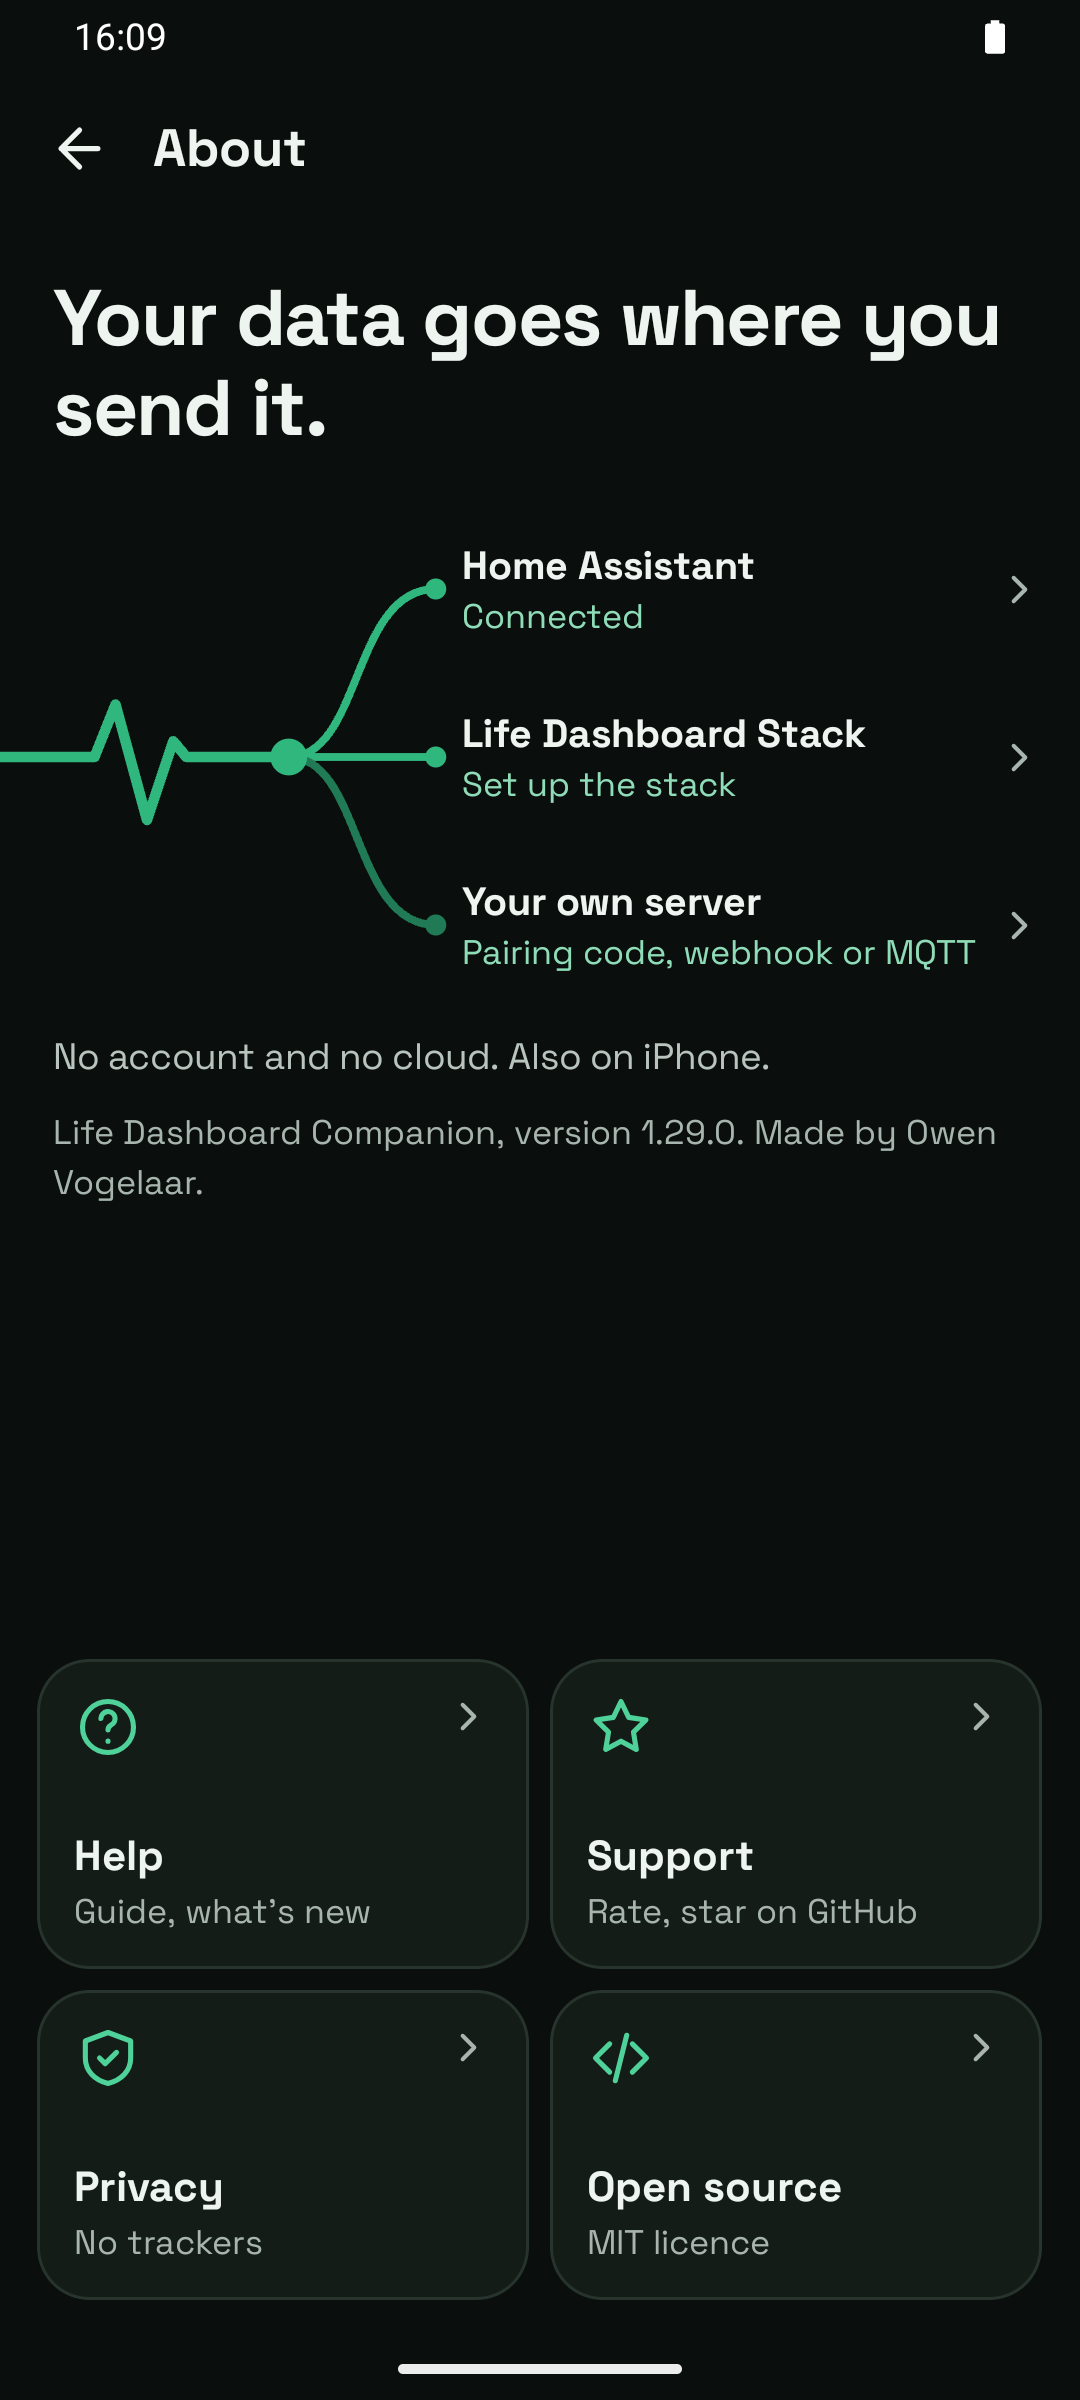
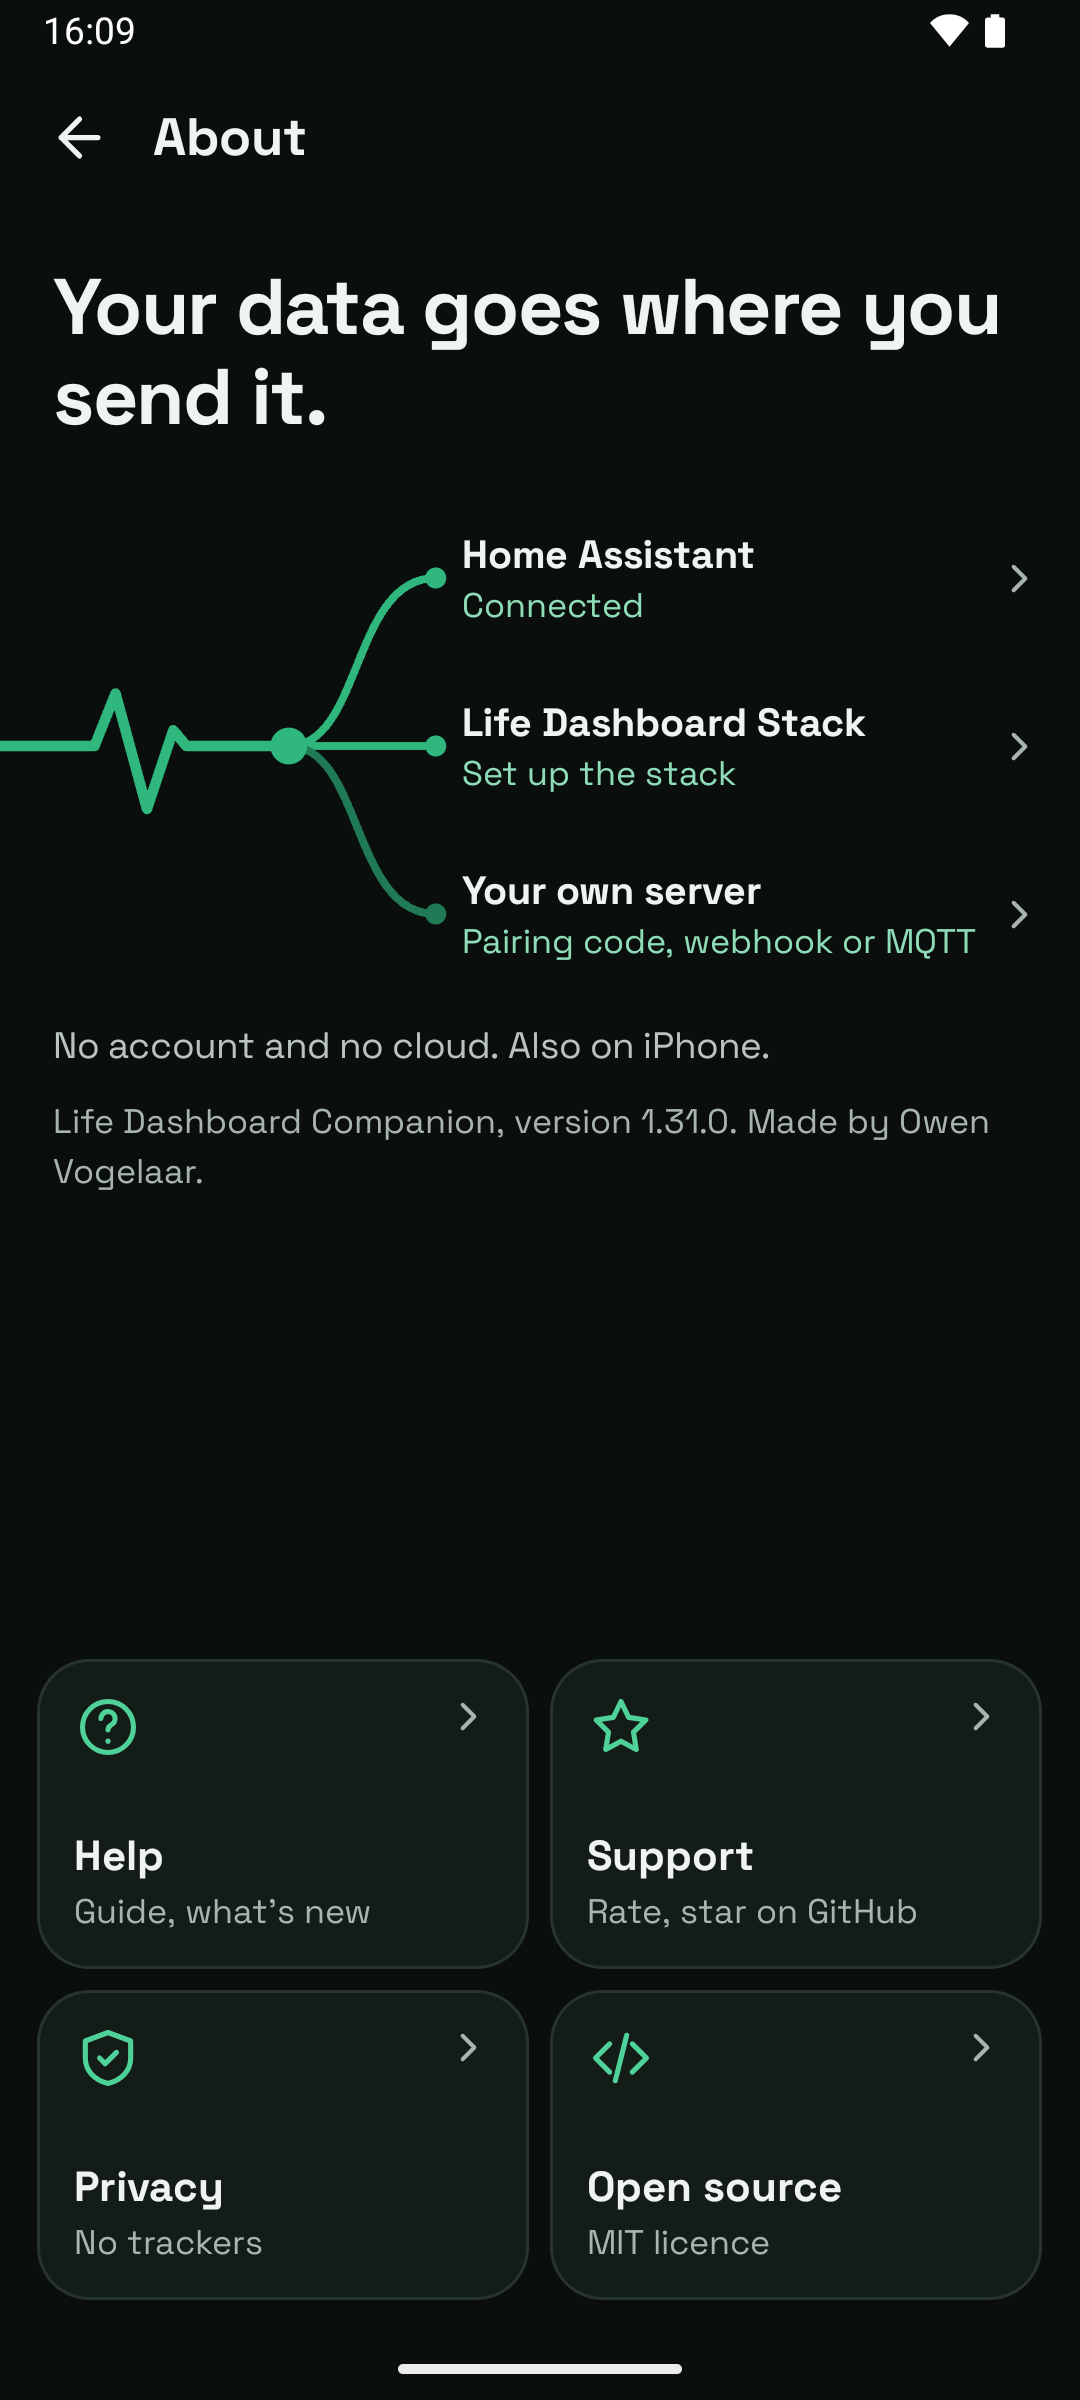
docs: Screenshots of a destination and Send history, and About at 1.31.0 (#241)

diff --git a/docs/features.md b/docs/features.md
@@ -158,6 +158,8 @@ The step-by-step setup for both is in [usage.md](usage.md#phone-to-home-assistan
 
 ### Webhooks
 
+<img src="screenshots/webhook.png" alt="The page of one destination, n8n.example.com: when it last delivered, its URL, its own HMAC signing secret with Copy secret, its headers, Send test and Remove destination" width="300" align="right">
+
 Any server that accepts a JSON POST can receive the data: your own backend, Node-RED, n8n, or the example [life-dashboard-stack](https://github.com/owen282000/life-dashboard-stack).
 
 - **Several URLs per section**, separate for Health Connect and Screen Time, and each with its own headers and signing secret, so a second receiver never breaks the first.
@@ -192,6 +194,8 @@ Health Connect and Screen Time each have their own **When to send**, so screen t
 A regular sync reads what changed since the last one, reaching back a week for records that a source writes late. To fill a receiver with older data, use backfill.
 
 ### Backfill
+
+<img src="screenshots/send-history.png" alt="Send your history: 30 days, 90 days, 6 months, 1 year or All history, each with its number of 3-day chunks, the addresses it goes to and the Start button" width="300" align="right">
 
 **Send history** under **What to send** on the **Health** tab sends past data of every enabled type to your webhooks: 30 days, 90 days, 6 months, 1 year, 2 years, 5 years, or **All history**.
 
